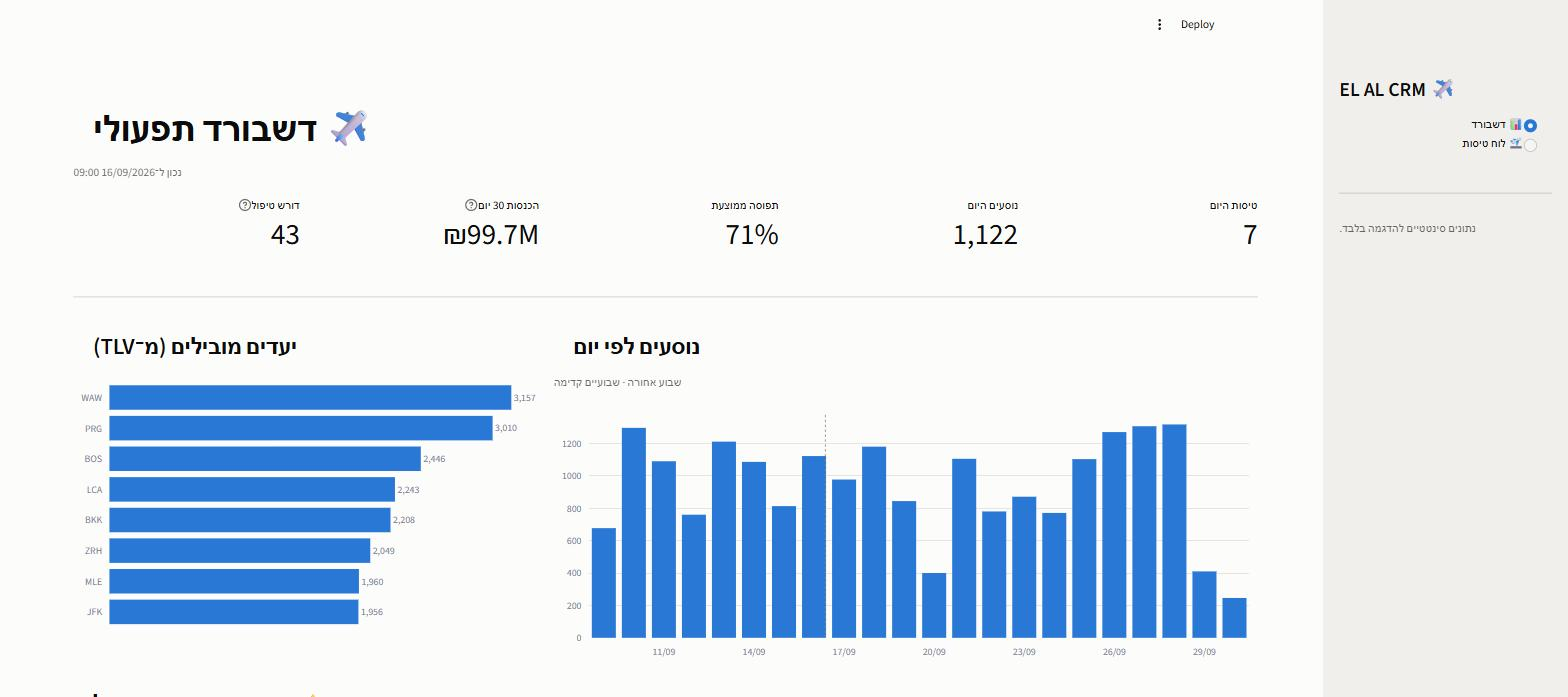
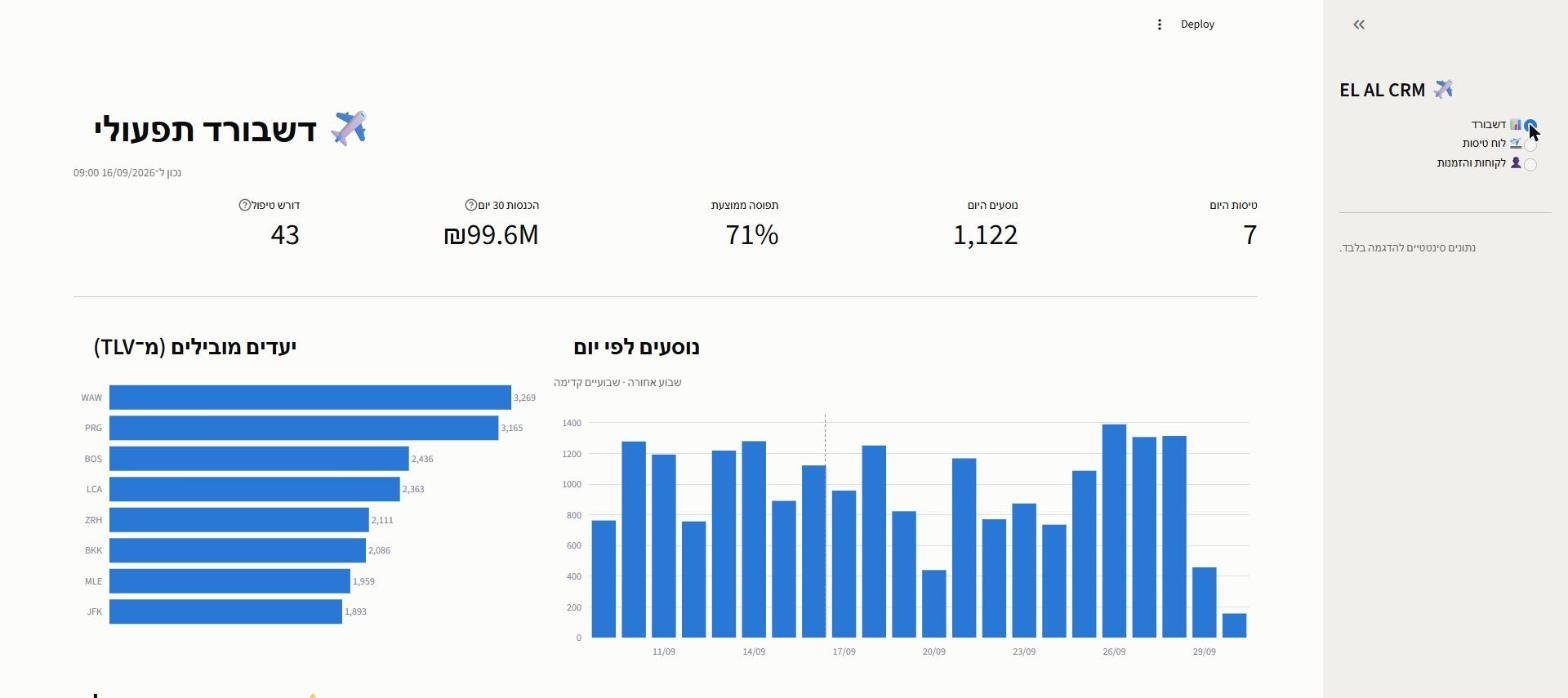
Phase 3: passenger manifests, customer cards, and booking management
Adds the first write paths: create a booking (auto-assigns the first free
seat and prices by cabin), cancel one (releases the seat), and check in.
Every write goes through write(), which clears the query cache so the
screens reflect the new state immediately.

New "customers and bookings" page searches by name, email, passport or
PNR, and shows tier, points, flight history and spend. The new-booking
form lives inside the customer card, matching how an agent actually
works: find the customer first, then book.

Flight detail now carries the passenger manifest.

Also fixes a Phase 1 generator bug the manifest exposed: seats were built
as row//6 plus a random letter, so the same seat could be issued twice on
one flight. Seat labels are now unique per cabin; verified 0 duplicate
seats and 0 overbooked cabins across all 545 flights.

diff --git a/app.py b/app.py
@@ -1,5 +1,7 @@
 """EL AL CRM — מערכת לסוכני נסיעות. הרצה: streamlit run app.py"""
+import random
 import sqlite3
+import string
 from datetime import datetime, timedelta
 from pathlib import Path
 
@@ -15,6 +17,14 @@ STATUS_HE = {
     "Scheduled": "🟢 מתוכננת", "Boarding": "🟢 עלייה למטוס", "Delayed": "🟡 מעוכבת",
     "Departed": "🔵 בטיסה", "Landed": "⚪ נחתה", "Cancelled": "🔴 מבוטלת",
 }
+BOOKING_HE = {
+    "Confirmed": "✅ מאושרת", "CheckedIn": "🛄 צ'ק-אין בוצע", "Completed": "⚪ הושלמה",
+    "Cancelled": "🔴 מבוטלת", "NoShow": "⛔ לא הופיע",
+}
+TIER_HE = {
+    "Basic": "Basic", "Silver": "🥈 Silver", "Gold": "🥇 Gold",
+    "Platinum": "💎 Platinum", "Top Platinum": "👑 Top Platinum",
+}
 
 st.set_page_config(page_title="EL AL CRM", page_icon="✈", layout="wide")
 st.markdown("""<style>
@@ -27,6 +37,20 @@ st.markdown("""<style>
 def q(sql, params=()):
     with sqlite3.connect(DB) as conn:
         return pd.read_sql_query(sql, conn, params=params)
+
+
+def write(sql, params=()):
+    """כתיבה ל-DB. מנקה את ה-cache כדי שהמסכים יציגו את המצב החדש."""
+    with sqlite3.connect(DB) as conn:
+        conn.execute(sql, params)
+        conn.commit()
+    st.cache_data.clear()
+
+
+def scalar(sql, params=()):
+    with sqlite3.connect(DB) as conn:
+        row = conn.execute(sql, params).fetchone()
+    return row[0] if row else None
 
 
 def shekel(x):
@@ -45,6 +69,7 @@ def shekel_short(x):
 FLIGHTS_SQL = """
 SELECT f.flight_id, f.flight_number, f.origin, f.destination,
        f.departure_time, f.arrival_time, f.aircraft_type, f.gate, f.status,
+       f.seats_business, f.seats_economy, f.price_business, f.price_economy,
        f.seats_business + f.seats_economy          AS capacity,
        COUNT(b.booking_id)                         AS booked,
        COALESCE(SUM(b.price_paid), 0)              AS revenue
@@ -60,6 +85,57 @@ def load_flights():
     df["arrival_time"] = pd.to_datetime(df["arrival_time"])
     df["occupancy"] = (df["booked"] / df["capacity"]).clip(upper=1.0)
     return df
+
+
+# ── פעולות על הזמנות ────────────────────────────────────────────────
+PNR_CHARS = string.ascii_uppercase + string.digits
+
+
+def new_pnr():
+    while True:
+        pnr = "".join(random.choice(PNR_CHARS) for _ in range(6))
+        if scalar("SELECT 1 FROM bookings WHERE pnr = ?", (pnr,)) is None:
+            return pnr
+
+
+def free_seat(flight_id, cabin, flight):
+    """המושב הפנוי הראשון בתא המבוקש, או None אם התא מלא."""
+    taken = set(q("SELECT seat FROM bookings WHERE flight_id = ? AND status <> 'Cancelled'",
+                  (int(flight_id),))["seat"].dropna())
+    if cabin == "Business":
+        letters, rows = "ABCD", range(1, int(flight["seats_business"]) // 4 + 3)
+    else:
+        letters, rows = "ABCDEF", range(10, 10 + int(flight["seats_economy"]) // 6 + 3)
+    for r in rows:
+        for letter in letters:
+            if f"{r}{letter}" not in taken:
+                return f"{r}{letter}"
+    return None
+
+
+def seats_left(flight_id, cabin, flight):
+    capacity = int(flight["seats_business"] if cabin == "Business" else flight["seats_economy"])
+    used = scalar("SELECT COUNT(*) FROM bookings WHERE flight_id = ? AND cabin_class = ?"
+                  " AND status <> 'Cancelled'", (int(flight_id), cabin)) or 0
+    return capacity - used
+
+
+def create_booking(customer_id, flight, cabin, baggage, notes):
+    seat = free_seat(flight["flight_id"], cabin, flight)
+    if seat is None:
+        return None, "אין מושבים פנויים בתא זה."
+    price = float(flight["price_business"] if cabin == "Business" else flight["price_economy"])
+    pnr = new_pnr()
+    write("""INSERT INTO bookings (pnr, customer_id, flight_id, booking_date, cabin_class,
+                                   seat, baggage_count, price_paid, status, agent_notes)
+             VALUES (?,?,?,?,?,?,?,?,'Confirmed',?)""",
+          (pnr, int(customer_id), int(flight["flight_id"]), NOW.isoformat(sep=" "),
+           cabin, seat, int(baggage), price, notes or None))
+    return pnr, seat
+
+
+def set_booking_status(booking_id, status):
+    write("UPDATE bookings SET status = ? WHERE booking_id = ?", (status, int(booking_id)))
 
 
 def style_fig(fig, height=320):
@@ -197,7 +273,199 @@ def page_flights(fl):
     m[3].metric("תפוסה", f"{f['occupancy']:.0%}")
     m[3].caption(f"{f['booked']} מתוך {f['capacity']} מושבים")
     m[4].metric("הכנסות", shekel(f["revenue"]))
-    st.info("רשימת הנוסעים וניהול ההזמנות יתווספו ב־Phase 3.")
+
+    st.markdown("##### 👥 רשימת נוסעים")
+    pax = q("""SELECT b.pnr, c.first_name || ' ' || c.last_name AS name, c.passport,
+                      c.matmid_tier, b.cabin_class, b.seat, b.baggage_count, b.status
+               FROM bookings b JOIN customers c ON c.customer_id = b.customer_id
+               WHERE b.flight_id = ?
+               ORDER BY CASE b.cabin_class WHEN 'Business' THEN 0 ELSE 1 END, b.seat""",
+            (int(f["flight_id"]),))
+
+    name_filter = st.text_input("סינון לפי שם או דרכון", key="pax_filter", placeholder="כהן")
+    if name_filter:
+        needle = name_filter.strip()
+        pax = pax[pax["name"].str.contains(needle, na=False) |
+                  pax["passport"].str.contains(needle, na=False)]
+
+    live = pax[pax["status"] != "Cancelled"]
+    st.caption(f"{len(live):,} נוסעים · "
+               f"{int((live['status'] == 'CheckedIn').sum()):,} עברו צ'ק-אין · "
+               f"{int((live['cabin_class'] == 'Business').sum()):,} במחלקת עסקים · "
+               f"{int((pax['status'] == 'Cancelled').sum()):,} ביטולים")
+
+    show = pax.assign(cabin=pax["cabin_class"].map({"Business": "עסקים", "Economy": "תיירים"}),
+                      tier=pax["matmid_tier"].map(TIER_HE),
+                      status_he=pax["status"].map(BOOKING_HE))[
+        ["pnr", "name", "passport", "tier", "cabin", "seat", "baggage_count", "status_he"]]
+    show.columns = ["PNR", "שם", "דרכון", "מועדון", "מחלקה", "מושב", "כבודה", "סטטוס"]
+    st.dataframe(show, hide_index=True, width="stretch", height=300)
+
+
+# ── עמוד: לקוחות והזמנות ────────────────────────────────────────────
+SEARCH_SQL = """
+SELECT DISTINCT c.customer_id, c.first_name, c.last_name, c.email, c.phone,
+       c.passport, c.country, c.matmid_tier, c.matmid_points
+FROM customers c LEFT JOIN bookings b ON b.customer_id = c.customer_id
+WHERE c.first_name || ' ' || c.last_name LIKE ?
+   OR c.email LIKE ? OR c.passport LIKE ? OR b.pnr LIKE ?
+ORDER BY c.last_name, c.first_name
+LIMIT 50
+"""
+
+
+def flash(msg, kind="success"):
+    st.session_state["flash"] = (kind, msg)
+    st.rerun()
+
+
+def show_flash():
+    if "flash" in st.session_state:
+        kind, msg = st.session_state.pop("flash")
+        {"success": st.success, "warning": st.warning, "error": st.error}[kind](msg)
+
+
+def page_customers(fl):
+    st.title("👤 לקוחות והזמנות")
+    show_flash()
+
+    term = st.text_input("חיפוש לפי שם, אימייל, דרכון או PNR",
+                         placeholder="כהן · user42@gmail.com · 12345678 · AB12CD")
+    if not term.strip():
+        st.caption("הקלד כדי לחפש לקוח.")
+        return
+
+    like = f"%{term.strip()}%"
+    results = q(SEARCH_SQL, (like, like, like, like))
+    if results.empty:
+        st.warning("לא נמצא לקוח תואם.")
+        return
+
+    st.caption(f"{len(results)} תוצאות" + (" (50 הראשונות)" if len(results) == 50 else ""))
+    listing = results.assign(name=results["first_name"] + " " + results["last_name"],
+                             tier=results["matmid_tier"].map(TIER_HE))[
+        ["name", "passport", "email", "phone", "country", "tier", "matmid_points"]]
+    listing.columns = ["שם", "דרכון", "אימייל", "טלפון", "מדינה", "מועדון", "נקודות"]
+    picked = st.dataframe(listing, hide_index=True, width="stretch", height=200,
+                          on_select="rerun", selection_mode="single-row")
+
+    rows = picked.selection["rows"]
+    if not rows:
+        st.caption("בחר לקוח מהרשימה.")
+        return
+    customer_card(results.iloc[rows[0]], fl)
+
+
+def customer_card(cust, fl):
+    cid = int(cust["customer_id"])
+    st.divider()
+    st.subheader(f"{cust['first_name']} {cust['last_name']}")
+    st.caption(f"דרכון {cust['passport']} · {cust['phone']} · {cust['email']} · {cust['country']}")
+
+    hist = q("""SELECT b.booking_id, b.pnr, f.flight_number, f.origin, f.destination,
+                       f.departure_time, b.cabin_class, b.seat, b.baggage_count,
+                       b.price_paid, b.status, b.agent_notes
+                FROM bookings b JOIN flights f ON f.flight_id = b.flight_id
+                WHERE b.customer_id = ?
+                ORDER BY f.departure_time DESC""", (cid,))
+    hist["departure_time"] = pd.to_datetime(hist["departure_time"])
+    active = hist[hist["status"] != "Cancelled"]
+    upcoming = active[active["departure_time"] >= NOW]
+
+    k = st.columns(4)
+    k[0].metric("מועדון", TIER_HE[cust["matmid_tier"]])
+    k[1].metric("נקודות", f"{int(cust['matmid_points']):,}")
+    k[2].metric("סה\"כ טיסות", len(active))
+    k[3].metric("סה\"כ הוצאה", shekel(active["price_paid"].sum()))
+
+    tab_hist, tab_new = st.tabs([f"🎫 הזמנות ({len(hist)})", "➕ הזמנה חדשה"])
+    with tab_hist:
+        booking_history(hist, upcoming)
+    with tab_new:
+        new_booking_form(cid, fl)
+
+
+def booking_history(hist, upcoming):
+    st.caption(f"{len(upcoming)} טיסות עתידיות")
+    view = hist.assign(route=hist["origin"] + " → " + hist["destination"],
+                       cabin=hist["cabin_class"].map({"Business": "עסקים", "Economy": "תיירים"}),
+                       status_he=hist["status"].map(BOOKING_HE),
+                       notes=hist["agent_notes"].fillna(""))[
+        ["pnr", "flight_number", "route", "departure_time", "cabin", "seat",
+         "baggage_count", "price_paid", "status_he", "notes"]]
+    view.columns = ["PNR", "טיסה", "מסלול", "המראה", "מחלקה", "מושב",
+                    "כבודה", "מחיר", "סטטוס", "הערות"]
+
+    picked = st.dataframe(view, hide_index=True, width="stretch", height=280,
+                          on_select="rerun", selection_mode="single-row",
+                          column_config={
+                              "המראה": st.column_config.DatetimeColumn(format="DD/MM/YYYY HH:mm"),
+                              "מחיר": st.column_config.NumberColumn(format="₪%d")})
+
+    rows = picked.selection["rows"]
+    if not rows:
+        st.caption("בחר הזמנה כדי לבצע עליה פעולה.")
+        return
+
+    b = hist.iloc[rows[0]]
+    st.markdown(f"**{b['pnr']}** · טיסה {b['flight_number']} · "
+                f"{b['origin']} → {b['destination']} · {b['departure_time']:%d/%m/%Y %H:%M}")
+
+    past = b["departure_time"] < NOW
+    can_checkin = b["status"] == "Confirmed" and not past
+    can_cancel = b["status"] in ("Confirmed", "CheckedIn") and not past
+
+    c1, c2, _ = st.columns([1, 1, 3])
+    if c1.button("🛄 בצע צ'ק-אין", disabled=not can_checkin, width="stretch"):
+        set_booking_status(b["booking_id"], "CheckedIn")
+        flash(f"בוצע צ'ק-אין להזמנה {b['pnr']} · מושב {b['seat']}.")
+    if c2.button("🔴 בטל הזמנה", disabled=not can_cancel, width="stretch"):
+        set_booking_status(b["booking_id"], "Cancelled")
+        flash(f"הזמנה {b['pnr']} בוטלה. המושב {b['seat']} שוחרר.", "warning")
+
+    if past:
+        st.caption("הטיסה כבר יצאה — לא ניתן לשנות את ההזמנה.")
+    elif b["status"] == "Cancelled":
+        st.caption("ההזמנה מבוטלת.")
+
+
+def new_booking_form(cid, fl):
+    available = fl[(fl["departure_time"] >= NOW) & (fl["status"] != "Cancelled")]
+    if available.empty:
+        st.warning("אין טיסות עתידיות זמינות.")
+        return
+
+    c1, c2 = st.columns(2)
+    dest = c1.selectbox("יעד", sorted(available["destination"].unique()))
+    cabin = c2.radio("מחלקה", ["Economy", "Business"],
+                     format_func=lambda x: "תיירים" if x == "Economy" else "עסקים",
+                     horizontal=True)
+
+    options = available[available["destination"] == dest].sort_values("departure_time")
+    labels = {int(r.flight_id): f"{r.flight_number} · {r.origin} → {r.destination} · "
+                                f"{r.departure_time:%d/%m/%Y %H:%M}"
+              for r in options.itertuples()}
+    flight_id = st.selectbox("טיסה", list(labels), format_func=lambda i: labels[i])
+    flight = options[options["flight_id"] == flight_id].iloc[0]
+
+    left = seats_left(flight_id, cabin, flight)
+    price = float(flight["price_business"] if cabin == "Business" else flight["price_economy"])
+    i1, i2 = st.columns(2)
+    i1.metric("מושבים פנויים במחלקה", left)
+    i2.metric("מחיר", shekel(price))
+
+    baggage = st.number_input("מזוודות", min_value=0, max_value=3, value=1)
+    notes = st.text_input("הערות סוכן", placeholder="ארוחה כשרה, כיסא גלגלים…")
+
+    if st.button("✅ צור הזמנה", type="primary", disabled=left <= 0):
+        pnr, seat = create_booking(cid, flight, cabin, baggage, notes)
+        if pnr is None:
+            st.error(seat)
+        else:
+            flash(f"נוצרה הזמנה **{pnr}** · טיסה {flight['flight_number']} · מושב {seat} · "
+                  f"{shekel(price)}.")
+    if left <= 0:
+        st.warning("המחלקה מלאה. בחר מחלקה או טיסה אחרת.")
 
 
 # ── ניווט ───────────────────────────────────────────────────────────
@@ -207,11 +475,14 @@ if not DB.exists():
 
 flights = load_flights()
 st.sidebar.title("✈ EL AL CRM")
-page = st.sidebar.radio("ניווט", ["📊 דשבורד", "🛫 לוח טיסות"], label_visibility="collapsed")
+page = st.sidebar.radio("ניווט", ["📊 דשבורד", "🛫 לוח טיסות", "👤 לקוחות והזמנות"],
+                        label_visibility="collapsed")
 st.sidebar.divider()
 st.sidebar.caption("נתונים סינטטיים להדגמה בלבד.")
 
 if page == "📊 דשבורד":
     page_dashboard(flights)
-else:
+elif page == "🛫 לוח טיסות":
     page_flights(flights)
+else:
+    page_customers(flights)

diff --git a/README.md b/README.md
@@ -20,10 +20,17 @@
 
 ![לוח טיסות](docs/flights-board.jpg)
 
-### פרטי טיסה
-בחירת שורה בטבלה פותחת פאנל עם פרטי הטיסה.
+### רשימת נוסעים
+בחירת טיסה פותחת את פרטיה ואת המניפסט — PNR, דרכון, דרגת מועדון, מושב וסטטוס צ'ק-אין,
+עם סינון לפי שם או דרכון.
 
-![פרטי טיסה](docs/flight-detail.jpg)
+![רשימת נוסעים](docs/passenger-manifest.jpg)
+
+### 👤 לקוחות והזמנות
+חיפוש לקוח לפי שם, אימייל, דרכון או PNR. כרטיס הלקוח מציג דרגת מועדון, נקודות והיסטוריית
+טיסות — ומאפשר לבצע צ'ק-אין, לבטל הזמנה, או לפתוח הזמנה חדשה.
+
+![כרטיס לקוח](docs/customer-card.jpg)
 
 ---
 
@@ -62,11 +69,20 @@ customers ──< bookings >── flights
 |---|---|---|
 | `customers` | לקוחות, כולל דרגת מועדון הנוסע המתמיד | 8,000 |
 | `flights` | טיסות מ־30 יום אחורה עד 60 יום קדימה, 28 יעדים | 545 |
-| `bookings` | הזמנות עם PNR, מושב, כבודה ומחיר בשקלים | 93,854 |
+| `bookings` | הזמנות עם PNR, מושב, כבודה ומחיר בשקלים | 93,723 |
 
 הדאטה **נגזר מהזמן**: טיסה שכבר נחתה מסומנת `Landed` וההזמנות שלה `Completed`;
 טיסה עתידית `Scheduled` וההזמנות `Confirmed`. בחירת המטוס מוגבלת לפי טווח היעד,
-כך ש־737 לא טס ללוס אנג'לס.
+כך ש־737 לא טס ללוס אנג'לס, והמושבים ייחודיים לכל טיסה — בלי הקצאה כפולה.
+
+## מה המערכת יודעת לעשות
+
+**קריאה** — לוח טיסות עם תפוסה וסטטוס, דשבורד תפעולי, מניפסט נוסעים, כרטיס לקוח
+עם היסטוריית טיסות והוצאה מצטברת, חיפוש לפי שם / אימייל / דרכון / PNR.
+
+**כתיבה** — פתיחת הזמנה חדשה (הושבה אוטומטית במושב הפנוי הראשון, מחיר לפי מחלקה),
+ביטול הזמנה (משחרר את המושב), וצ'ק-אין. כל כתיבה מנקה את ה-cache כדי שהמסכים
+יציגו מיד את המצב החדש.
 
 ---
 
@@ -76,8 +92,7 @@ customers ──< bookings >── flights
 |---|---|---|
 | 1 | מודל נתונים + דאטה סינטטי | ✅ |
 | 2 | דשבורד + לוח טיסות | ✅ |
-| 3 | ניהול לקוחות והזמנות | ⬜ |
-| 4 | חיפוש PNR, ייצוא, גרפים נוספים | ⬜ |
+| 3 | ניהול לקוחות והזמנות | ✅ |
 
 ## דרישות
 
